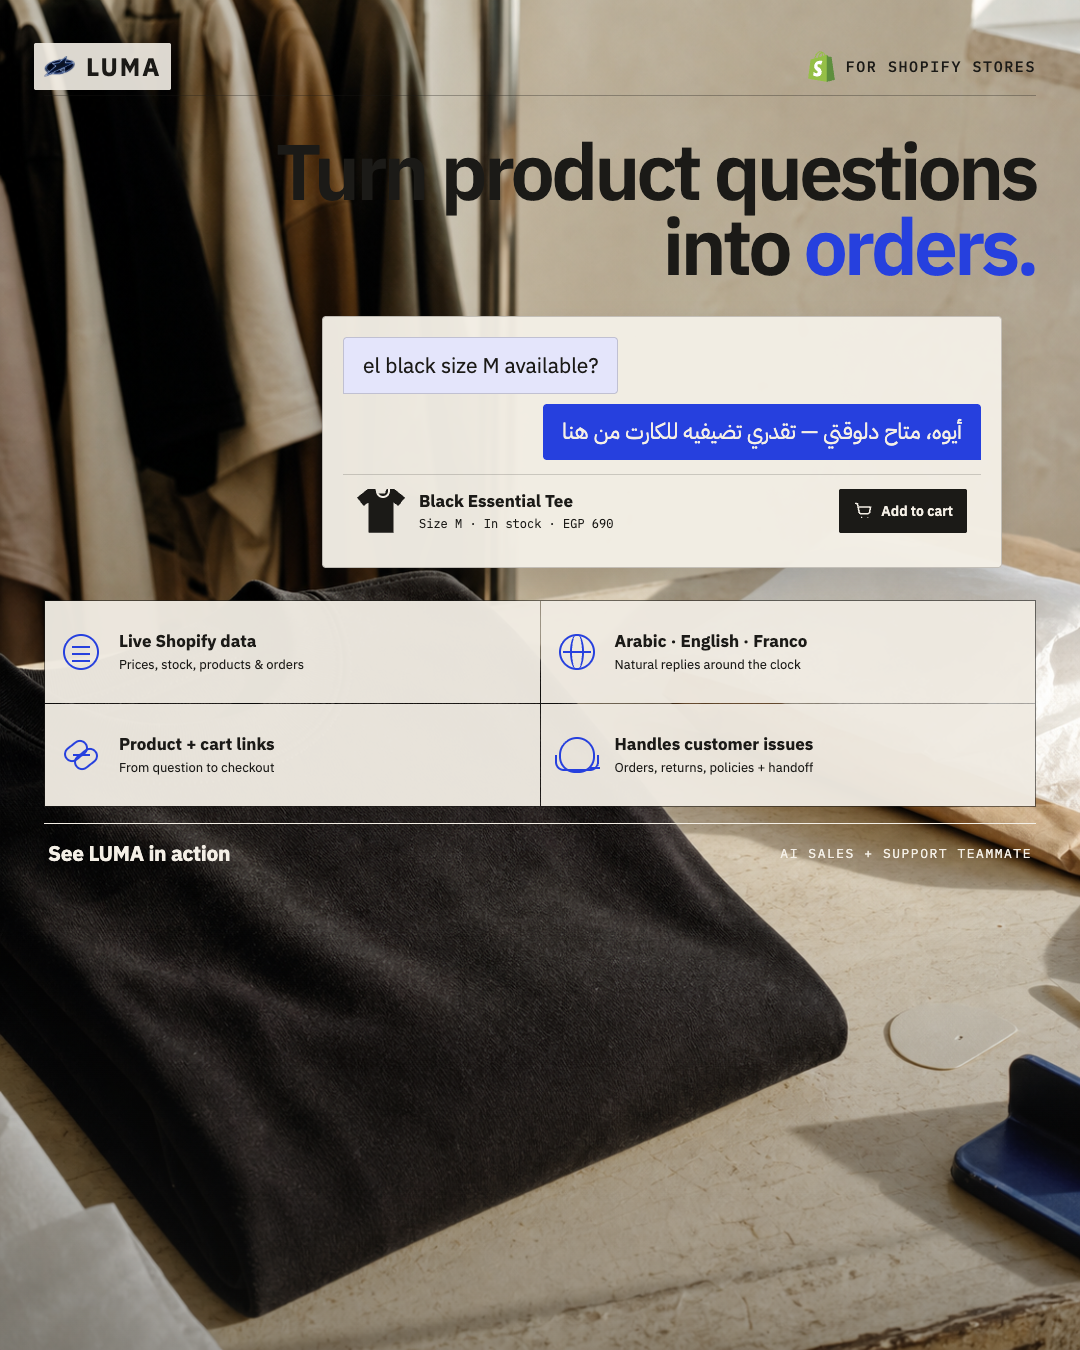
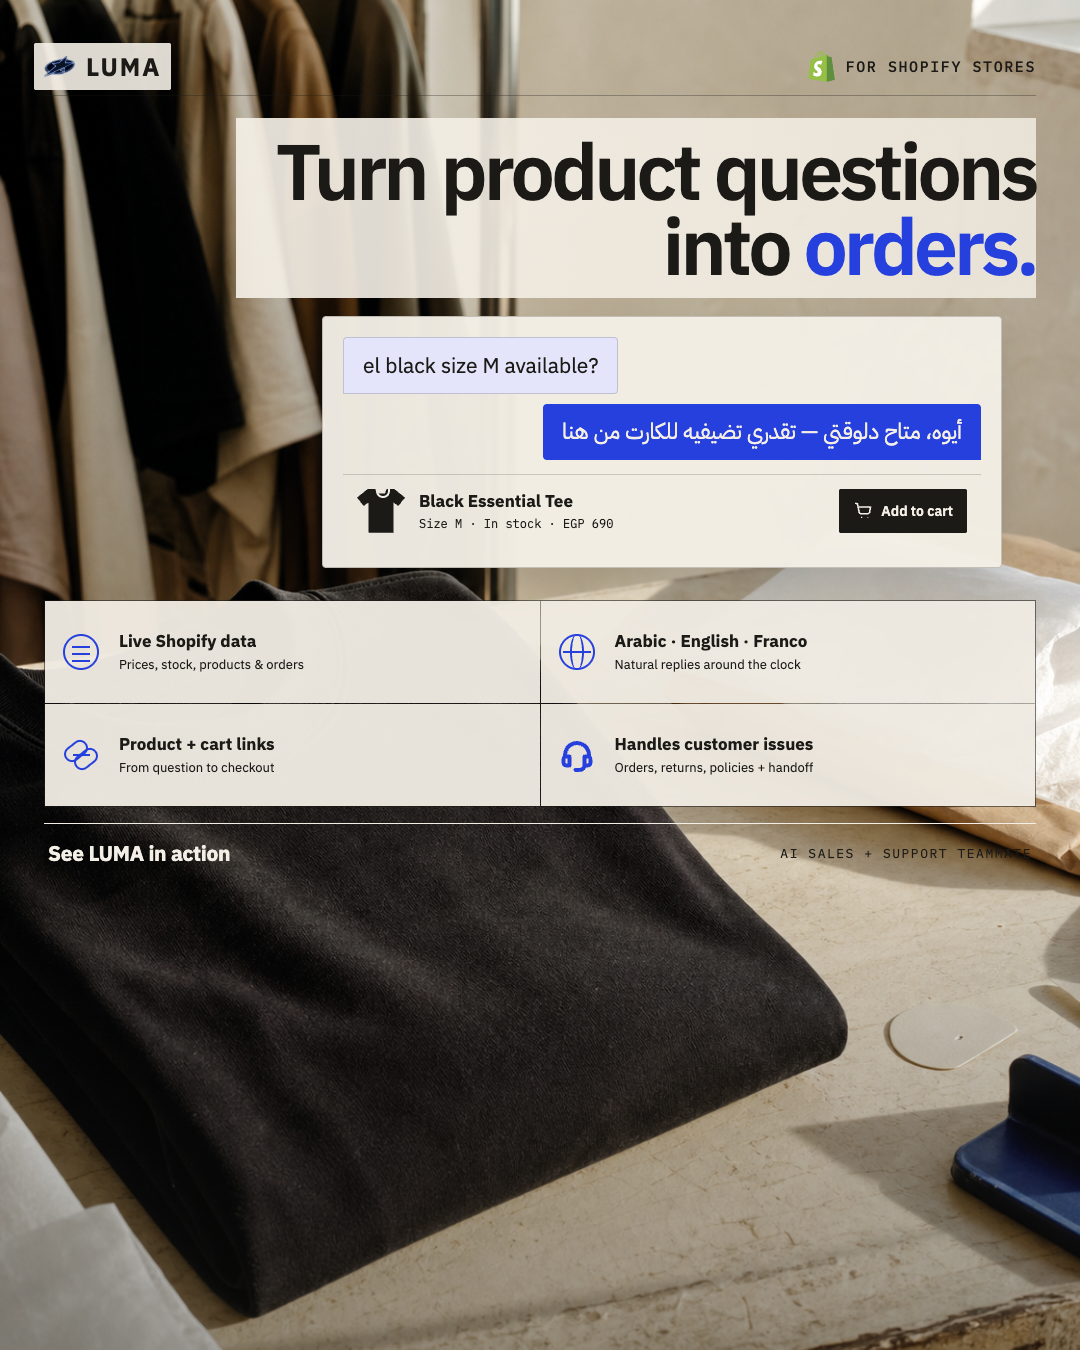
fix: address install ad visual review

diff --git a/social-assets/campaign-install-ads/campaign.css b/social-assets/campaign-install-ads/campaign.css
@@ -39,7 +39,8 @@ h1 em{color:var(--blue);font-style:normal}
 .ad--product .ad__photo{object-position:center 55%}
 .ad--product::after{content:"";position:absolute;inset:auto 0 0;height:42%;z-index:-1;background:linear-gradient(180deg,transparent,rgba(27,26,23,.34))}
 .ad--product .luma-lockup{margin-left:-10px;padding:7px 10px;background:rgba(244,239,230,.9);border-radius:2px}
-.ad--product h1{width:800px;margin:38px 0 0 auto;text-align:right;font-size:78px}
+.ad--product h1{position:relative;z-index:0;width:800px;margin:38px 0 0 auto;text-align:right;font-size:78px}
+.ad--product h1::before{content:"";position:absolute;z-index:-1;inset:-16px 0 -14px;background:linear-gradient(96deg,rgba(244,239,230,.92) 0%,rgba(244,239,230,.88) 58%,rgba(244,239,230,.82) 100%)}
 .ad--product .dm-demo{width:680px;margin:32px 34px 0 auto;padding:20px;background:rgba(244,239,230,.96);border:1px solid rgba(27,26,23,.22);border-radius:4px;box-shadow:0 14px 32px rgba(27,26,23,.12)}
 .ad--product .dm-demo .luma{margin-top:10px;max-width:78%;font-size:22px}
 .product-card{display:grid;grid-template-columns:48px 1fr auto;gap:14px;align-items:center;margin-top:14px;padding:14px;border-top:1px solid rgba(27,26,23,.18)}
@@ -61,10 +62,11 @@ h1 em{color:var(--blue);font-style:normal}
 .cap--links .cap-icon::before,.cap--links .cap-icon::after{content:"";position:absolute;width:22px;height:12px;border:2px solid currentColor;border-radius:12px;transform:rotate(-38deg)}
 .cap--links .cap-icon::before{left:0;top:6px}.cap--links .cap-icon::after{right:0;bottom:6px}
 .cap--links .cap-icon{background:linear-gradient(currentColor,currentColor) center/17px 2px no-repeat}
-.cap--support .cap-icon{border:2px solid currentColor;border-radius:50% 50% 45% 45%}
-.cap--support .cap-icon::before{content:"";position:absolute;left:-6px;right:-6px;top:16px;height:14px;border:2px solid currentColor;border-top:0;border-radius:0 0 9px 9px}
-.cap--support .cap-icon::after{content:"";position:absolute;right:-7px;bottom:2px;width:10px;height:2px;background:currentColor}
+.support-glyph{border:0;border-radius:0}
+.support-glyph::before,.support-glyph::after{content:none}
+.support-glyph svg{display:block;width:100%;height:100%;overflow:visible;fill:none;stroke:currentColor;stroke-width:2.65;stroke-linecap:round;stroke-linejoin:round}
 .ad--product footer{height:60px;margin-top:16px;padding:0 4px;color:var(--paper)}
+.ad--product footer>span{color:var(--ink)}
 
 /* Variant B — merchant in motion */
 .ad--merchant{padding:38px 44px 36px;color:var(--paper)}
@@ -84,8 +86,6 @@ h1 em{color:var(--blue);font-style:normal}
 .message-symbol--cart{border-bottom:2px solid currentColor}
 .message-symbol--cart::before{content:"";position:absolute;left:3px;top:2px;width:16px;height:11px;border:2px solid currentColor;border-top:0;transform:skew(-8deg)}
 .message-symbol--cart::after{content:"••";position:absolute;left:4px;bottom:-9px;font:bold 15px/1 var(--sans);letter-spacing:7px}
-.message-symbol--support{border:2px solid currentColor;border-radius:50%}
-.message-symbol--support::before{content:"";position:absolute;left:-5px;right:-5px;top:10px;height:9px;border:2px solid currentColor;border-top:0}
 .message-group .customer,.message-group .luma{font-size:19px;padding:11px 14px}
 .message-group .luma{margin-top:8px}
 .ad--merchant footer{height:64px;margin-top:auto;color:var(--paper)}
@@ -103,9 +103,7 @@ h1 em{color:var(--blue);font-style:normal}
 .panel-label small{font:500 11px/1 var(--mono);letter-spacing:.12em}
 .panel-icon{position:relative;width:42px;height:40px;color:var(--blue)}
 .panel-icon--garment{background:currentColor;clip-path:polygon(22% 0,38% 0,43% 11%,57% 11%,62% 0,78% 0,100% 22%,84% 40%,75% 32%,75% 100%,25% 100%,25% 32%,16% 40%,0 22%)}
-.panel-icon--support{border:3px solid var(--blue-soft);border-radius:50%}
-.panel-icon--support::before{content:"";position:absolute;left:-7px;right:-7px;top:19px;height:15px;border:3px solid var(--blue-soft);border-top:0;border-radius:0 0 10px 10px}
-.panel-icon--support::after{content:"";position:absolute;right:-8px;bottom:1px;width:12px;height:3px;background:var(--blue-soft)}
+.panel-icon--support{color:var(--blue-soft)}
 .panel-chat{margin-top:30px;display:flex;flex-direction:column;gap:11px}
 .panel-chat .customer,.panel-chat .luma{max-width:95%;font-size:18px;padding:12px 14px}
 .diptych-panel--support .customer{background:var(--ink);color:var(--paper);border-color:rgba(244,239,230,.24)}

diff --git a/social-assets/campaign-install-ads/index.html b/social-assets/campaign-install-ads/index.html
@@ -29,7 +29,7 @@
         <div class="cap cap--data"><span class="cap-icon" aria-hidden="true"></span><span><b>Live Shopify data</b><span>Prices, stock, products &amp; orders</span></span></div>
         <div class="cap cap--language"><span class="cap-icon" aria-hidden="true"></span><span><b>Arabic · English · Franco</b><span>Natural replies around the clock</span></span></div>
         <div class="cap cap--links"><span class="cap-icon" aria-hidden="true"></span><span><b>Product + cart links</b><span>From question to checkout</span></span></div>
-        <div class="cap cap--support"><span class="cap-icon" aria-hidden="true"></span><span><b>Handles customer issues</b><span>Orders, returns, policies + handoff</span></span></div>
+        <div class="cap cap--support"><span class="cap-icon support-glyph" aria-hidden="true"><svg viewBox="0 0 24 24" focusable="false"><path d="M4 13v-1a8 8 0 0 1 16 0v1"/><path d="M4 13h3v6H5a2 2 0 0 1-2-2v-2a2 2 0 0 1 1-2Z"/><path d="M20 13h-3v6h2a2 2 0 0 0 2-2v-2a2 2 0 0 0-1-2Z"/><path d="M17 19c0 2-1.8 3-4 3h-2"/></svg></span><span><b>Handles customer issues</b><span>Orders, returns, policies + handoff</span></span></div>
       </section>
       <footer><strong>See LUMA in action</strong><span>AI SALES + SUPPORT TEAMMATE</span></footer>
     </article>
@@ -51,7 +51,7 @@
           <p class="luma">Yes — it’s in stock. I can add it to your cart.</p>
         </div>
         <div class="message-group message-group--issue">
-          <span class="message-label"><span class="message-symbol message-symbol--support" aria-hidden="true"></span>CUSTOMER ISSUE</span>
+          <span class="message-label"><span class="message-symbol message-symbol--support support-glyph" aria-hidden="true"><svg viewBox="0 0 24 24" focusable="false"><path d="M4 13v-1a8 8 0 0 1 16 0v1"/><path d="M4 13h3v6H5a2 2 0 0 1-2-2v-2a2 2 0 0 1 1-2Z"/><path d="M20 13h-3v6h2a2 2 0 0 0 2-2v-2a2 2 0 0 0-1-2Z"/><path d="M17 19c0 2-1.8 3-4 3h-2"/></svg></span>CUSTOMER ISSUE</span>
           <p class="customer" lang="ar-Latn">order 1842 lsa mwslsh</p>
           <p class="luma">I found it. It’s out for delivery today.</p>
         </div>
@@ -78,7 +78,7 @@
           <div class="panel-outcome"><svg viewBox="0 0 24 24" aria-hidden="true"><path d="M3 4h2l2.1 10.2a2 2 0 0 0 2 1.6h7.8a2 2 0 0 0 2-1.5L20 8H7M10 20h.01M17 20h.01"/></svg>Add to cart</div>
         </section>
         <section class="diptych-panel diptych-panel--support" aria-label="Support conversation">
-          <div class="panel-label"><span class="panel-icon panel-icon--support" aria-hidden="true"></span><span><small>02</small>Support</span></div>
+          <div class="panel-label"><span class="panel-icon panel-icon--support support-glyph" aria-hidden="true"><svg viewBox="0 0 24 24" focusable="false"><path d="M4 13v-1a8 8 0 0 1 16 0v1"/><path d="M4 13h3v6H5a2 2 0 0 1-2-2v-2a2 2 0 0 1 1-2Z"/><path d="M20 13h-3v6h2a2 2 0 0 0 2-2v-2a2 2 0 0 0-1-2Z"/><path d="M17 19c0 2-1.8 3-4 3h-2"/></svg></span><span><small>02</small>Support</span></div>
           <div class="panel-chat">
             <p class="customer" lang="ar-Latn">order 1842 lsa mwslsh</p>
             <p class="luma">I found it — it’s out for delivery today.</p>
